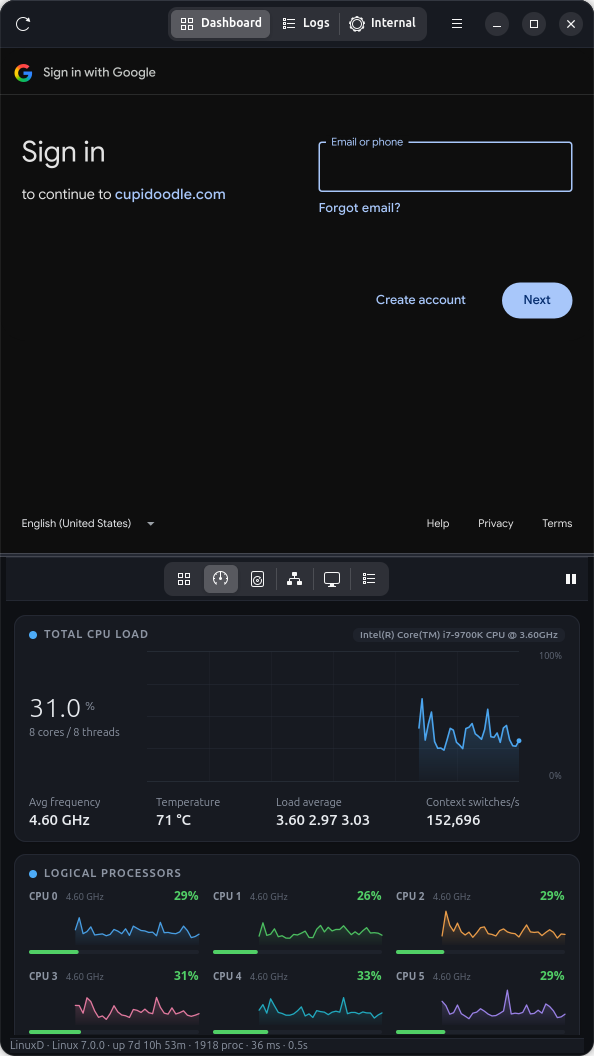
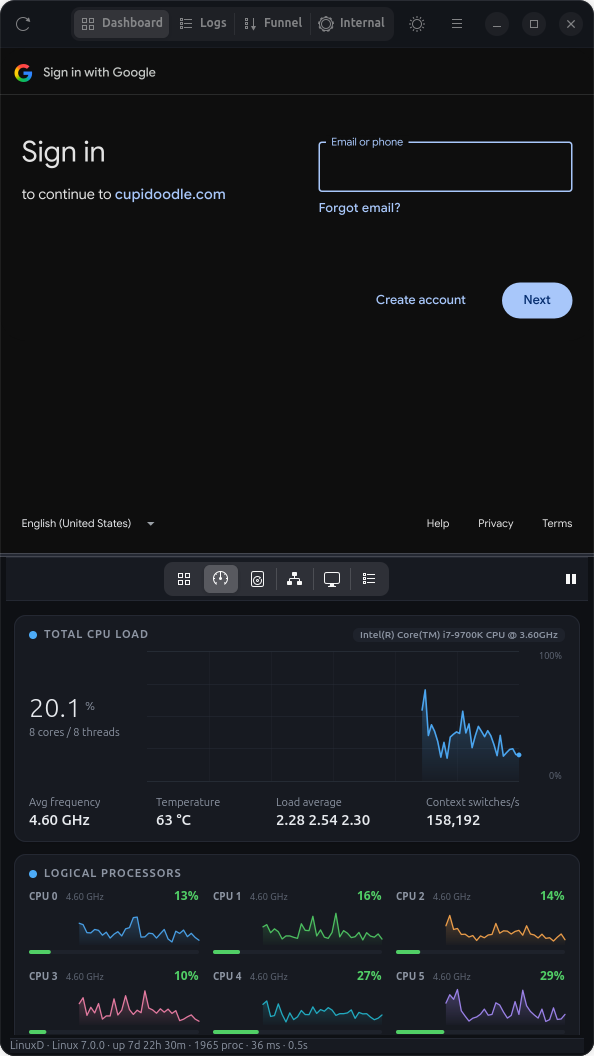
Add a Funnel tab for the selling funnel
Sits between Logs and Internal, so it is Alt+3 now and Internal moves to
Alt+4. Adwaita carries no funnel or filter glyph, hence the
descending-sort one, which at least reads as something narrowing.

A fourth label does not fit the portrait header at libadwaita's default
8px toggle padding; 6px leaves every label drawn in full with room to
spare. The web console tabs are toggle nodes rather than button nodes, so
a button selector would have quietly done nothing here.

Two knock-on fixes for the wider list: the row of buttons shown when
WebKitGTK is missing now wraps instead of running past the window edge,
which four buttons were close to doing already, and the screenshot tool
walks the configured tabs rather than a hardcoded three, so the next tab
cannot be missed.

diff --git a/tools/capture.py b/tools/capture.py
@@ -20,6 +20,7 @@ from gi.repository import Gio, GLib, Gtk  # noqa: E402
 
 from vitals import theme  # noqa: E402
 from vitals.app import VitalsApp, VitalsWindow  # noqa: E402
+from vitals.config import TABS  # noqa: E402
 from vitals.sampler import Sampler  # noqa: E402
 
 OUT_DIR = pathlib.Path(sys.argv[1] if len(sys.argv) > 1 else "/tmp/vitals-shots")
@@ -76,8 +77,7 @@ def main() -> int:
                     window.monitor.process_page.search.set_text(PROCESS_FILTER)
             return name, run
 
-        queue = [step(f"tab-{tab}", "overview", tab)
-                 for tab in ("logs", "internal", "dashboard")]
+        queue = [step(f"tab-{key}", "overview", key) for key, *_rest in TABS]
         queue += [step(f"dashboard-{page}", page, "dashboard") for page in PAGES]
         queue += [step(f"light-{page}", page, "dashboard",
                        mode="light" if index == 0 else None)

diff --git a/vitals/app.py b/vitals/app.py
@@ -151,7 +151,9 @@ class VitalsWindow(Adw.ApplicationWindow):
         box.append(title)
         box.append(hint)
 
-        buttons = Gtk.Box(orientation=Gtk.Orientation.HORIZONTAL, spacing=8)
+        # Wraps rather than clips: one button per tab overruns the portrait width
+        # as soon as the window is narrowed.
+        buttons = Adw.WrapBox(child_spacing=8, line_spacing=8)
         buttons.set_halign(Gtk.Align.CENTER)
         for _key, label, _icon, url in TABS:
             button = Gtk.Button(label=f"Open {label}")

diff --git a/vitals/theme.py b/vitals/theme.py
@@ -234,6 +234,9 @@ window.vitals {{ background-color: {BG_WINDOW}; }}
     font-feature-settings: "tnum";
 }}
 .web-tabs {{ font-size: 12px; }}
+/* Four labelled tabs only fit the portrait header with tighter toggles than the
+   8px libadwaita default. */
+.web-tabs toggle {{ padding-left: 6px; padding-right: 6px; }}
 paned > separator {{
     background-color: {BORDER};
     min-height: 4px;

diff --git a/vitals/config.py b/vitals/config.py
@@ -13,6 +13,8 @@ TABS = (
      "https://cupidoodle.com/internal/dashboard"),
     ("logs", "Logs", "view-list-symbolic",
      "https://cupidoodle.com/internal/logs"),
+    ("funnel", "Funnel", "view-sort-descending-symbolic",
+     "https://cupidoodle.com/internal/selling-funnel"),
     ("internal", "Internal", "emblem-system-symbolic",
      "https://www.cupidoodle.com/internal"),
 )

diff --git a/README.md b/README.md
@@ -1,9 +1,9 @@
 # Vitals
 
 A 9:16 portrait desk panel for Linux. The top half is an internal web console
-with three tabs (Dashboard, Logs and Internal); the bottom half is a real-time
-system monitor covering CPU per core, memory, swap, network, disk, processes and
-GPU — including video processor load and video memory.
+with four tabs (Dashboard, Logs, Funnel and Internal); the bottom half is a
+real-time system monitor covering CPU per core, memory, swap, network, disk,
+processes and GPU — including video processor load and video memory.
 
 Built with GTK4 + libadwaita, WebKitGTK and PyGObject. Charts are drawn directly
 with GSK, so there is no charting dependency and rendering is GPU-accelerated.
@@ -23,11 +23,11 @@ with GSK, so there is no charting dependency and rendering is GPU-accelerated.
 The window opens as a 9:16 portrait sized to the screen it lands on, split in
 half by a draggable divider:
 
-🌐 **Web console (top)** — three tabs: `internal/dashboard` (the one it opens
-on), `internal/logs` and `internal`. They share one browsing session, so signing
-in once covers all of them and the login survives a restart. A thin progress bar
-tracks loading, and HTTP errors get a readable screen with retry and sign-in
-buttons instead of a blank page.
+🌐 **Web console (top)** — four tabs: `internal/dashboard` (the one it opens on),
+`internal/logs`, `internal/selling-funnel` and `internal`. They share one
+browsing session, so signing in once covers all of them and the login survives a
+restart. A thin progress bar tracks loading, and HTTP errors get a readable
+screen with retry and sign-in buttons instead of a blank page.
 
 📈 **System monitor (bottom)** — the six pages below, on an icon switcher.
 
@@ -132,7 +132,7 @@ To install a desktop launcher for the current user:
 
 | Shortcut | Action |
 | --- | --- |
-| `Alt+1` – `Alt+3` | Switch to the Dashboard, Logs or Internal tab |
+| `Alt+1` – `Alt+4` | Switch to the Dashboard, Logs, Funnel or Internal tab |
 | `Ctrl+R` | Reload the current web tab |
 | `Alt+←` | Go back in the current web tab |
 | `Ctrl++`, `Ctrl+-`, `Ctrl+0` | Zoom the web console in, out, or back to default |
@@ -218,6 +218,8 @@ TABS = (
      "https://cupidoodle.com/internal/dashboard"),
     ("logs", "Logs", "view-list-symbolic",
      "https://cupidoodle.com/internal/logs"),
+    ("funnel", "Funnel", "view-sort-descending-symbolic",
+     "https://cupidoodle.com/internal/selling-funnel"),
     ("internal", "Internal", "emblem-system-symbolic",
      "https://www.cupidoodle.com/internal"),
 )
@@ -225,4 +227,8 @@ TABS = (
 
 Adding or removing an entry is enough: the switcher, the shortcuts and the
 lazy-loading all follow. Icon names must exist in the current icon theme, or
-the switcher shows a missing-image box.
+the switcher shows a missing-image box — Adwaita has no funnel or filter icon,
+which is why the funnel tab borrows the descending-sort glyph.
+
+Four labelled tabs are about as many as the portrait header fits. Beyond that,
+either shorten the labels or drop to an icon-only switcher.
